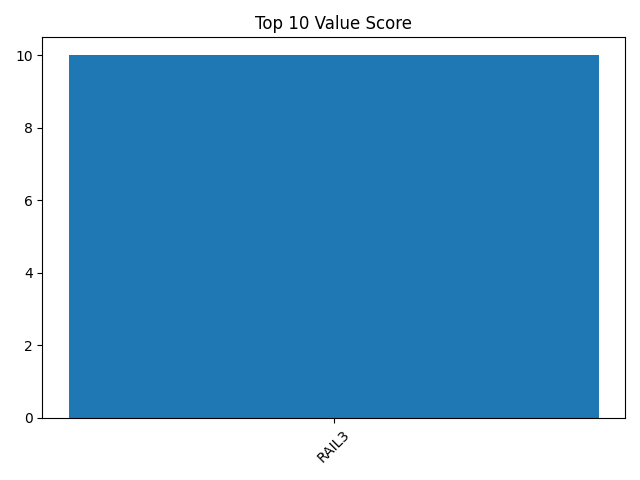
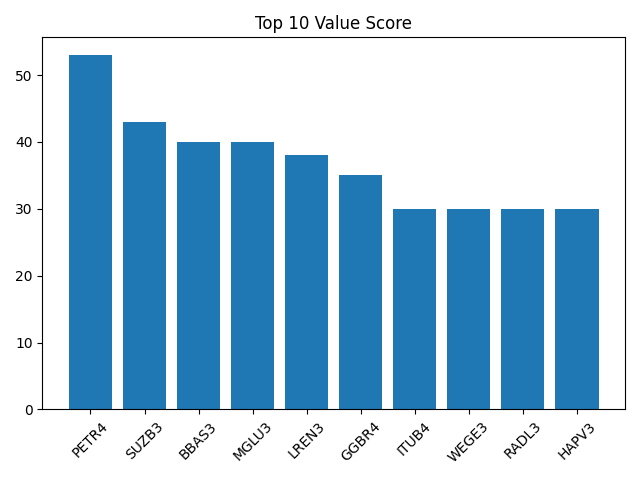
Atualiza ranking automático

diff --git a/index.html b/index.html
@@ -4,13 +4,17 @@
     <title>Investment Agent</title>
 </head>
 <body>
-    <h1>Ranking Value - 2026-04-15</h1>
+    <h1>Ranking Value - 2026-04-16</h1>
 
     <h2>Top 5</h2>
     <pre>
-📊 Ranking Value Diário - 2026-04-15
+📊 Ranking Value Diário - 2026-04-16
 
-RAIL3 | Score: 10 | PVP: 2.28 | PL: 37.04
+PETR4 | Score: 53 | PVP: 1.46 | PL: 6.2
+SUZB3 | Score: 43 | PVP: 1.35 | PL: 4.43
+BBAS3 | Score: 40 | PVP: 0.76 | PL: 10.22
+MGLU3 | Score: 40 | PVP: 0.64 | PL: 36.04
+LREN3 | Score: 38 | PVP: 1.47 | PL: 10.94
 
     </pre>
 
@@ -18,6 +22,6 @@ RAIL3 | Score: 10 | PVP: 2.28 | PL: 37.04
     <img src="grafico.png" width="600">
 
     <h2>Downloads</h2>
-    <a href="ranking_value_2026-04-15.csv">Baixar CSV</a>
+    <a href="ranking_value_2026-04-16.csv">Baixar CSV</a>
 </body>
 </html>
